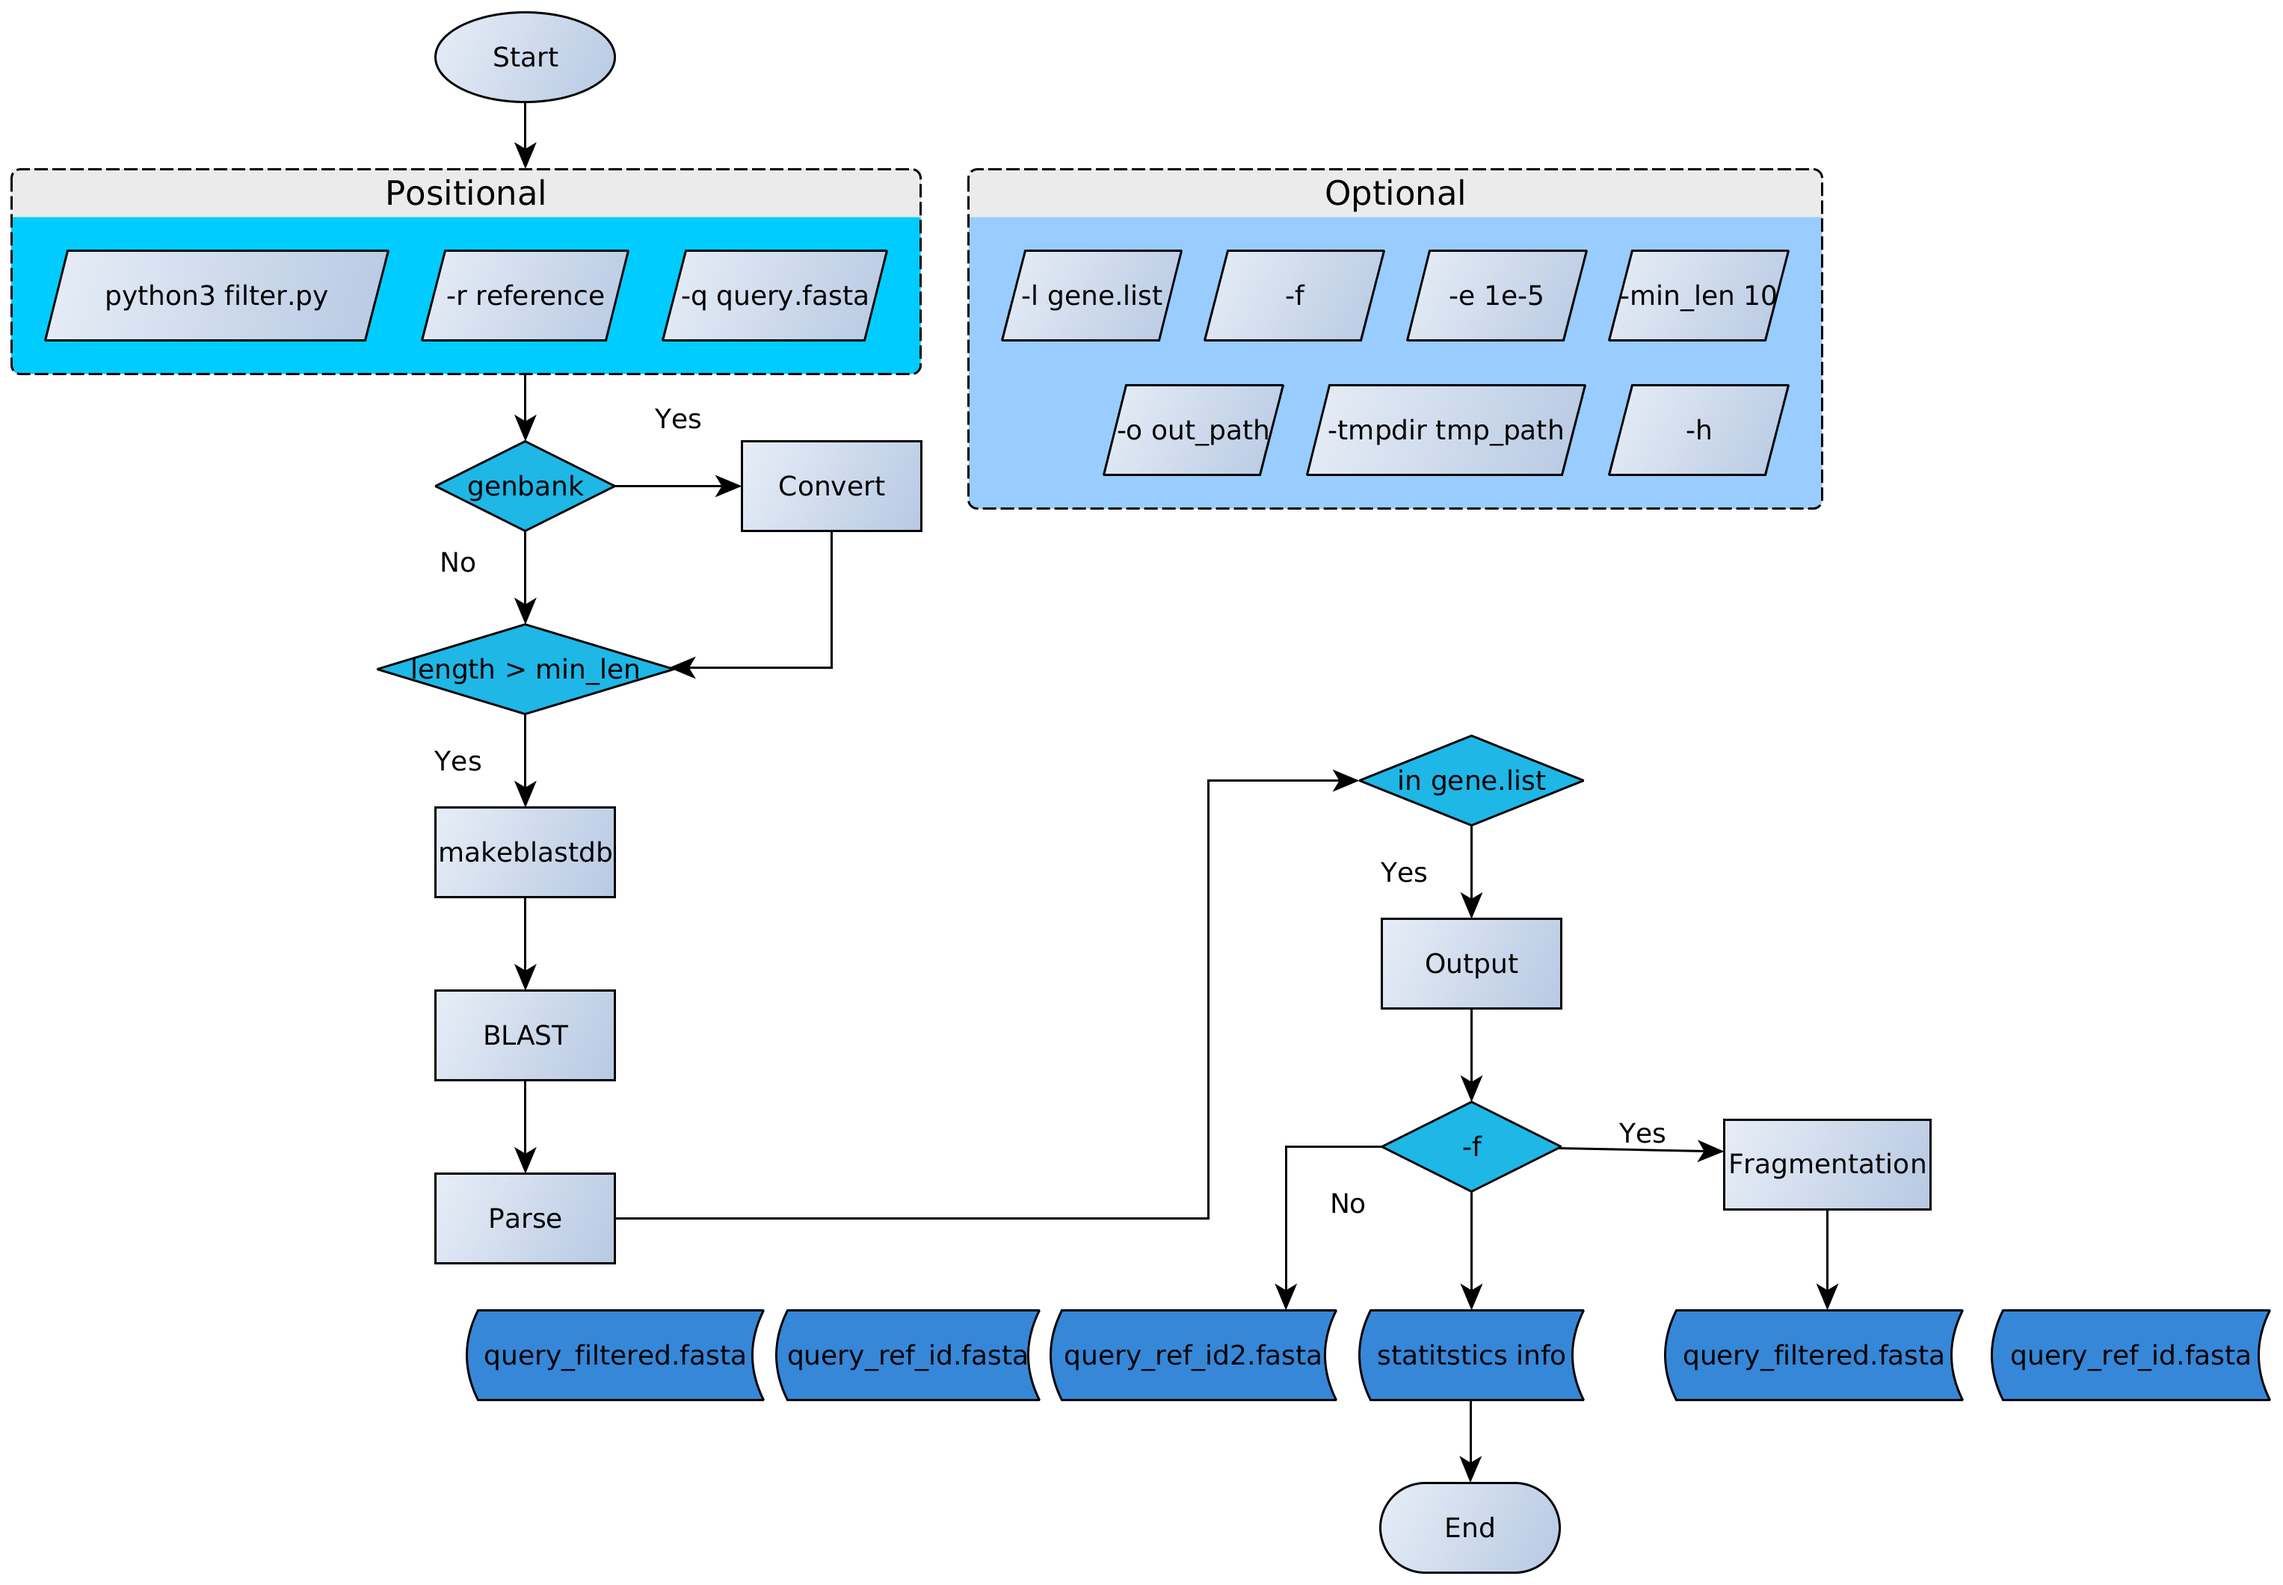
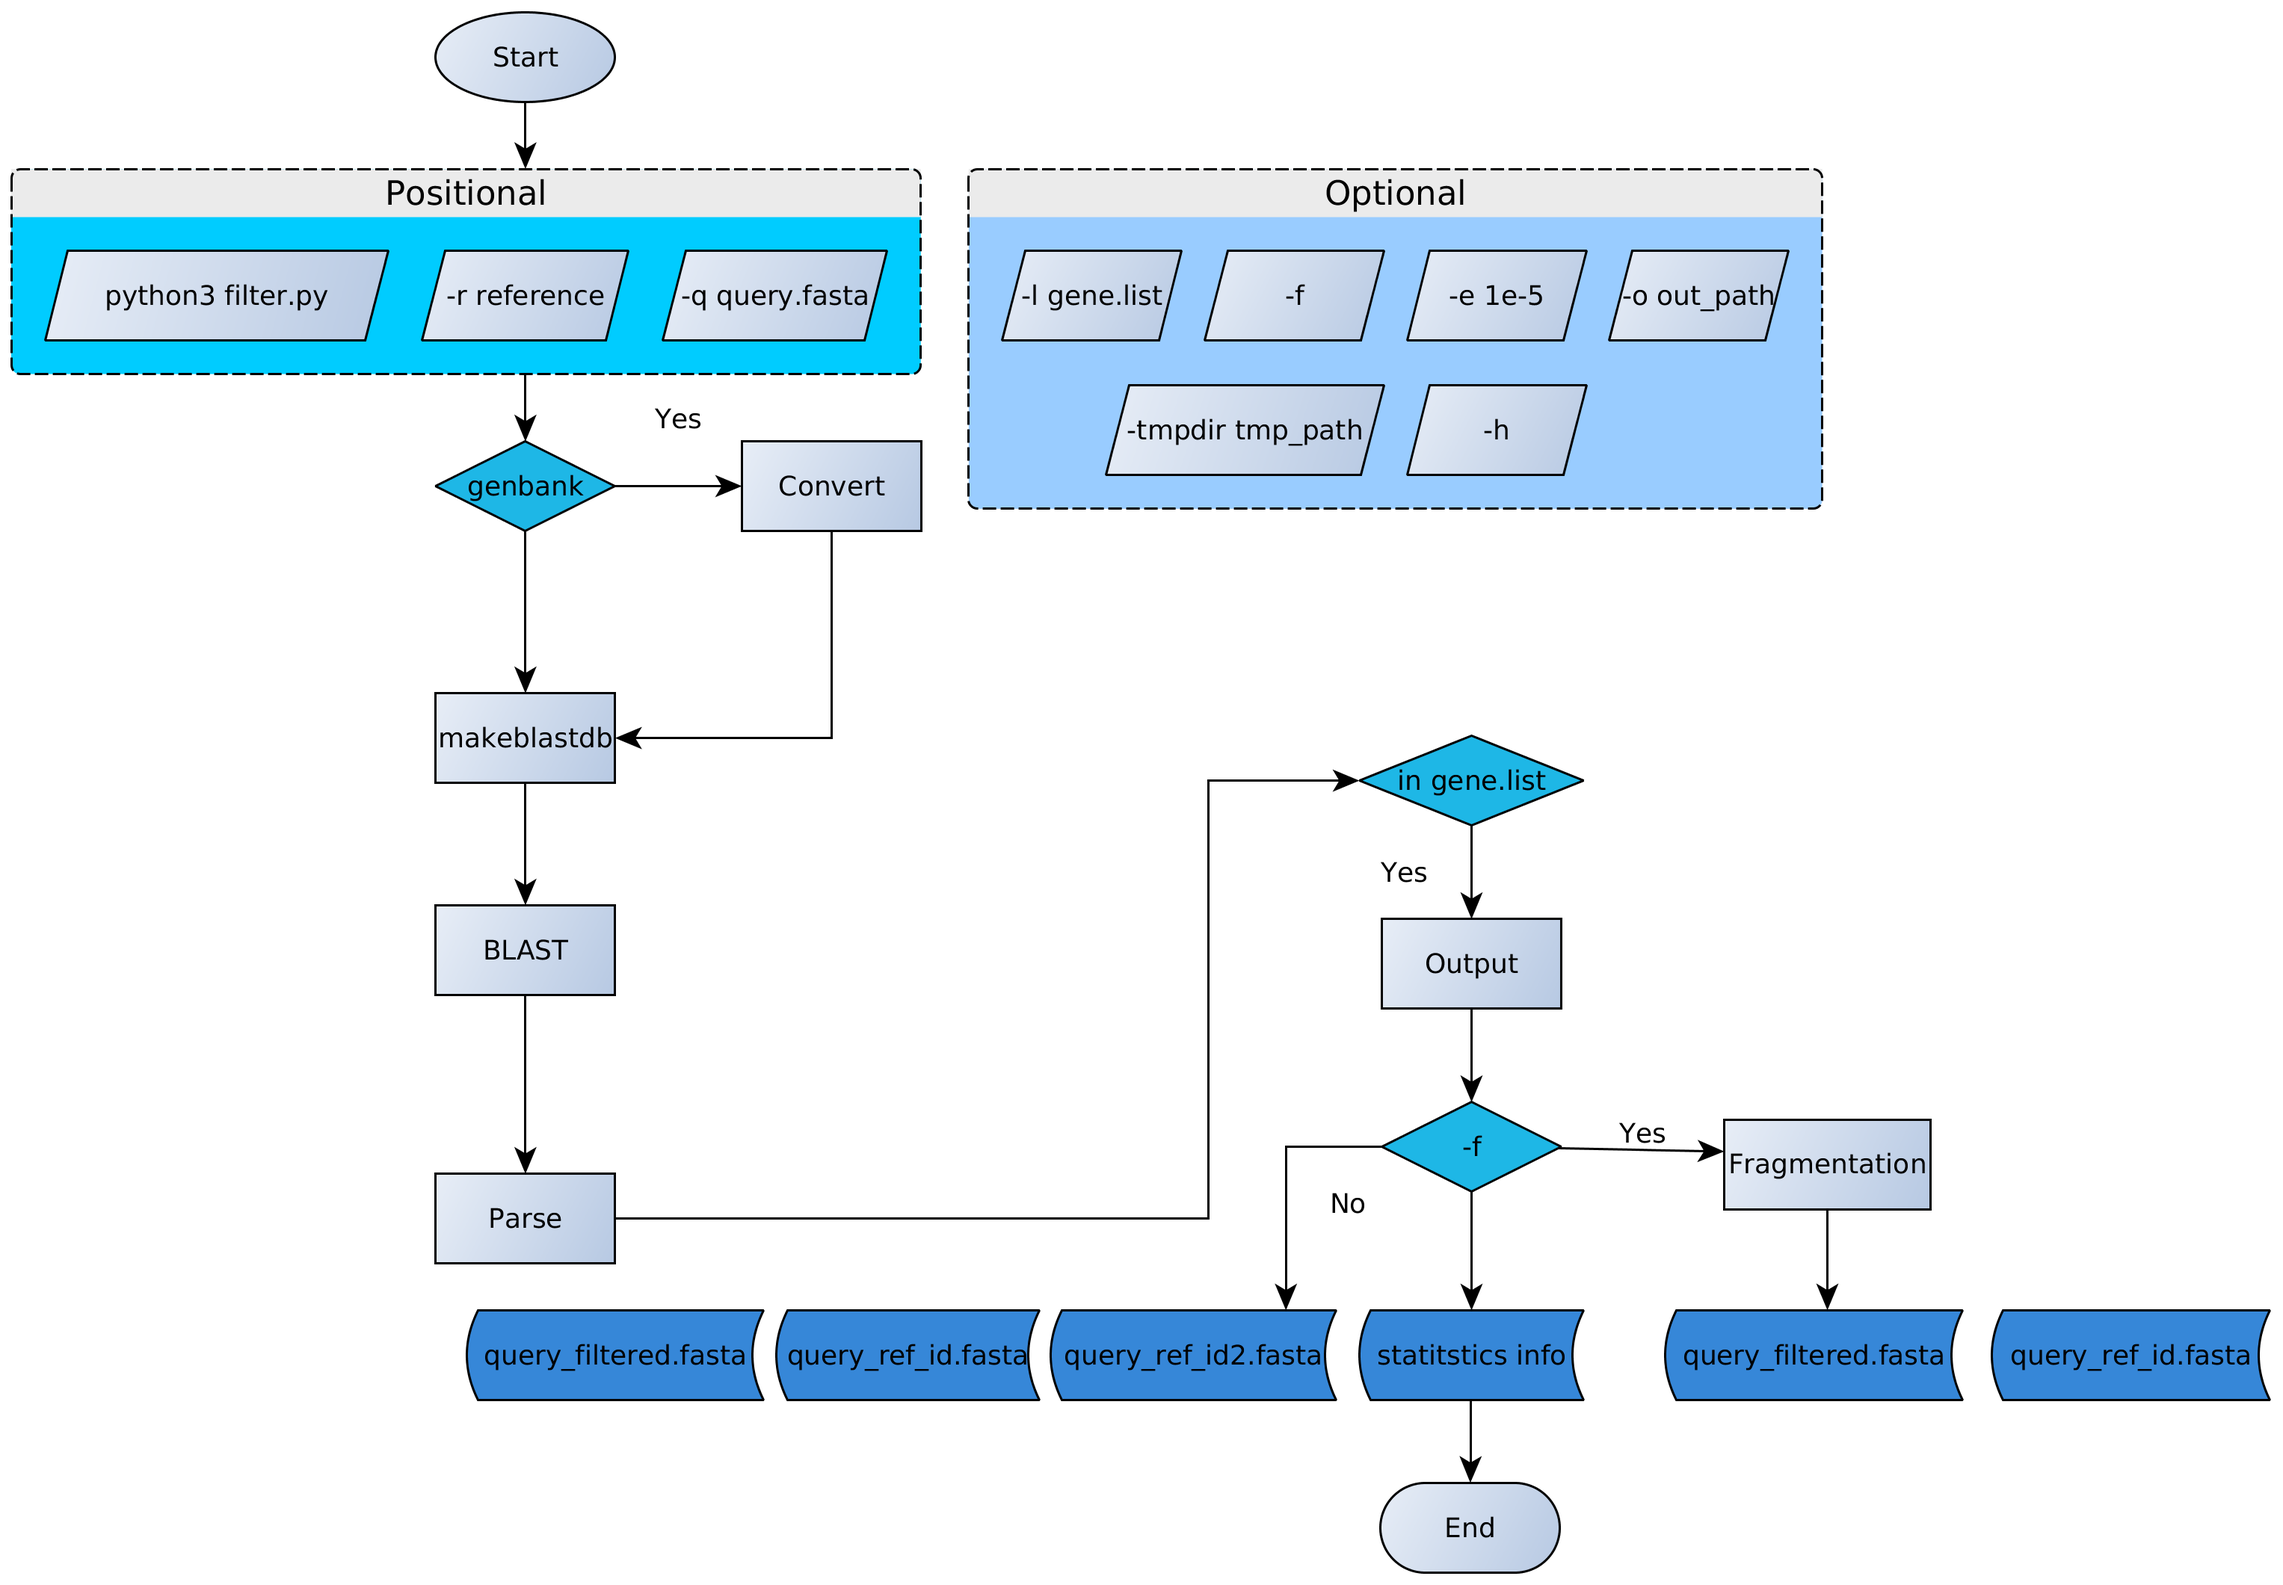
remove filter_length

Changed region(s): [[0.1555, 0.3734, 0.3111, 0.6846], [0.4666, 0.1867, 0.7777, 0.3112]]

diff --git a/filter.py b/filter.py
@@ -22,17 +22,6 @@ def print_time(function):
     return wrapper
 
 
-def filter_length():
-    long_contig = os.path.join(args.tmp, 'long.fasta')
-    with open(long_contig, 'w') as output_file:
-        for contig in SeqIO.parse(args.query_file, 'fasta'):
-            if len(contig.seq) < args.min_length:
-                pass
-            else:
-                SeqIO.write(contig, output_file, 'fasta')
-    return long_contig
-
-
 def get_gene(ref_file):
     """
     You can edit gene.list if you want more or less chloroplast coding
@@ -115,7 +104,7 @@ def parse(blast_result_file):
 
 def output(parse_result, old_name):
     filtered = os.path.join(
-        args.out, old_name.replace('.fasta', '')+'-filtered.fasta')
+        args.out, os.path.splitext(old_name)[0]+'-filtered.fasta')
     handle = open(filtered, 'w')
     # {query_id: [hit_id, 0]}
     query_hit = {i[1].id: [i[0].id, 0] for i in parse_result}
@@ -127,7 +116,7 @@ def output(parse_result, old_name):
             else:
                 query_hit[record.id][1] += 1
             info = '-'.join([query_hit[record.id][0],
-                             old_name.replace('.fasta', '')])
+                             os.path.splitext(old_name)[0]])
             output = info+'.fasta'
             record.id = ''
             record.description = info+'-'+record.description
@@ -139,7 +128,7 @@ def output(parse_result, old_name):
     else:
         for record in parse_result:
             query_hit[record[1].id][1] += 1
-            info = record[0].id+'-'+old_name.replace('.fasta', '')
+            info = record[0].id+'-'+os.path.splitext(old_name)[0]
             output = info+'.fasta'
             record[1].id = ''
             record[1].description = info+'-'+record[1].description
@@ -172,8 +161,6 @@ def main():
     arg.add_argument('-l', dest='gene_list', help='list of gene you want')
     arg.add_argument('-e', dest='evalue', default=1e-5,
                      type=float, help='evalue for BLAST')
-    arg.add_argument('-min_len', dest='min_length', type=int,
-                     default=10, help='minium length of contig')
     arg.add_argument('-o', dest='out', default='out', help='output path')
     arg.add_argument('-f', dest='fragment_out', action='store_true',
                      help='only output matched part of'
@@ -189,12 +176,10 @@ def main():
         if args.gene_list is not None:
             args.ref_file = get_gene(args.ref_file)
         else:
-            ref_file = args.ref_file.replace('.gb', '.fasta')
+            ref_file = os.path.splitext(args.ref_file)[0] + '.fasta'
             SeqIO.convert(args.ref_file, 'gb', ref_file, 'fasta')
             args.ref_file = ref_file
-    # filter length
     old_name = args.query_file
-    args.query_file = filter_length()
     xml_file = blast(args.ref_file, args.query_file)
     parse_result = parse(xml_file)
     output(parse_result, old_name)
